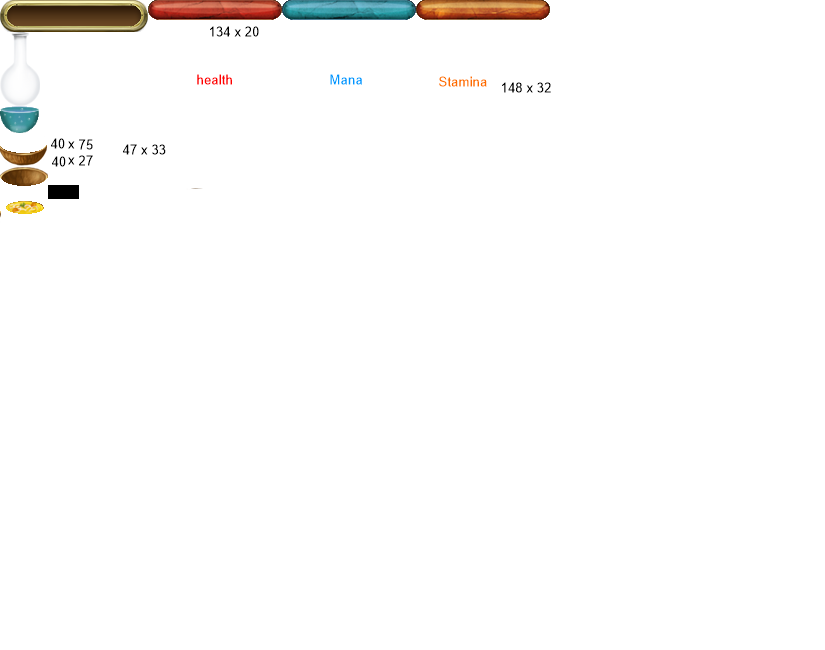
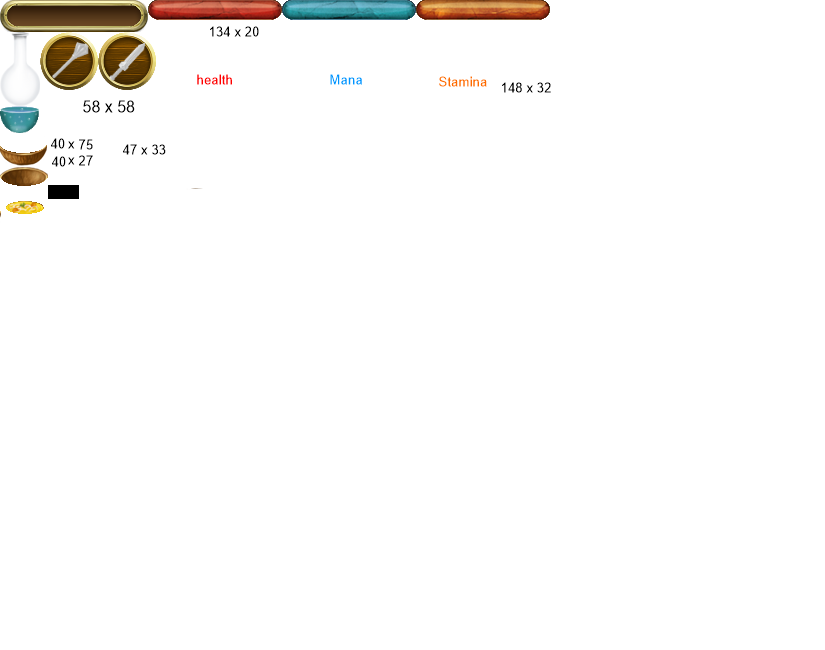
v1.3.6 - Отображается информация о выбранном предмете в окошке над панелью быстрого доступа.(пока только урон) - Исправлен алгоритм определения замедляющих блоков.

Changed region(s): [[0.0303, 0.0308, 0.2121, 0.1846]]

diff --git a/MainGame/TypeEnemy.cpp b/MainGame/TypeEnemy.cpp
@@ -25,7 +25,7 @@ void initializeTypeEnemy(TypesEnemy &typesEnemy, dataSound &databaseSound)
 	int stamina = 50;
 	int mana = 0;
 
-	float timeGivenDamage = 1.f;
+	float timeOutputDamage = 1.f;
 	int damCut = 5;
 	int damCrash = 0;
 
@@ -40,7 +40,7 @@ void initializeTypeEnemy(TypesEnemy &typesEnemy, dataSound &databaseSound)
 
 	typeEnemy->Init(texturePath, name, databaseSound, width, height, AMOUNT_WOLF_SLOTS, 
 									health, stamina, mana, protectCut, protectCrush,
-									view, damCut, damCrash, timeGivenDamage,
+									view, damCut, damCrash, timeOutputDamage,
 									idItemsForWolf, minAmountForWolf, maxAmountForWolf, 1);
 
 	delete minAmountForWolf;
@@ -64,7 +64,7 @@ void initializeTypeEnemy(TypesEnemy &typesEnemy, dataSound &databaseSound)
 	stamina = 50;
 	mana = 0;
 
-	timeGivenDamage = 1.f;
+	timeOutputDamage = 1.f;
 	damCut = 0;
 	damCrash = 5;
 
@@ -79,7 +79,7 @@ void initializeTypeEnemy(TypesEnemy &typesEnemy, dataSound &databaseSound)
 
 	typeEnemy->Init(texturePath, name, databaseSound, width, height, AMOUNT_SKELET_SLOTS,
 									health, stamina, mana, protectCut, protectCrush,
-									view, damCut, damCrash, timeGivenDamage,
+									view, damCut, damCrash, timeOutputDamage,
 									idItemsForSkelet, minAmountForSkelet, maxAmountForSkelet, 1);
 
 	delete minAmountForSkelet;
@@ -123,7 +123,8 @@ void TypeEnemy::Init(sf::String texturePath, sf::String nameEnemy, dataSound &da
 	maxStamina = stamina;
 	maxMana = mana;
 
-	timeGivenDamage = timeDam;
+	timeOutputDamage = timeDam;
+
 	cuttingDamage = damCut;
 	crushingDamage = damCrash;
 

diff --git a/MainGame/MyMath.cpp b/MainGame/MyMath.cpp
@@ -1,6 +1,7 @@
 #include "MyMath.h"
 
 using namespace sf;
+using namespace std;
 
 float distansePoints(Vector2f firstPoint, Vector2f secondPoint)
 {
@@ -12,4 +13,30 @@ Vector2f vectorDirection(Vector2f firstPoint, Vector2f secondPoint)
 {
 	return { (secondPoint.x - firstPoint.x) ,/// distansePoints(firstPoint, secondPoint)
 		(secondPoint.y - firstPoint.y) };
+}
+
+void intToString(int &inputNumber, string &inputString) {
+	std::stringstream ss;
+	ss << inputNumber;
+	ss >> inputString;
+}
+
+string toStringCharacter(int firstNumber, int secondNumber) {
+	string firstString;
+	string secondString;
+
+	intToString(firstNumber, firstString);
+	intToString(secondNumber, secondString);
+
+	return firstString + DIVIDE_SYMBOL + secondString;
+}
+
+int computeMiddleString(Text &text)
+{
+	return text.getString().getSize() * text.getCharacterSize() / 4;// TODO
+}
+
+int computeSizeString(Text &text)
+{
+	return text.getString().getSize() * text.getCharacterSize();// TODO
 }

diff --git a/MainGame/Font.h b/MainGame/Font.h
@@ -6,17 +6,6 @@ const int SIZE_BIG_TEXT = 32;
 const int SIZE_NORMAL_TEXT = 18;
 const int SIZE_SMALL_TEXT = 14;
 
-
-typedef enum {
-	infoWindowBlockGui,
-	infoWindowFloorGui,
-	infoWindowUnlifeObjectGui,
-	infoWindowItemGui,
-	mainPersonIsDeathGui,
-	amountTextsGui
-} idTextGui;
-
-
 typedef enum {
 	infoWindowBlock,
 	infoWindowFloor,
@@ -25,6 +14,7 @@ typedef enum {
 	infoEntity,
 	inputDamage,
 	levelBar,
+	itemGui,
 	mainPersonIsDeath,
 	amountTexts
 } idText;

diff --git a/MainGame/MyMath.h b/MainGame/MyMath.h
@@ -3,3 +3,9 @@
 
 float distansePoints(sf::Vector2f firstPoint, sf::Vector2f secondPoint);
 sf::Vector2f vectorDirection(sf::Vector2f firstPoint, sf::Vector2f secondPoint);
+
+void intToString(int &inputNumber, std::string &inputString);
+std::string toStringCharacter(int firstNumber, int secondNumber);
+
+int computeMiddleString(sf::Text &text);
+int computeSizeString(sf::Text &text);
